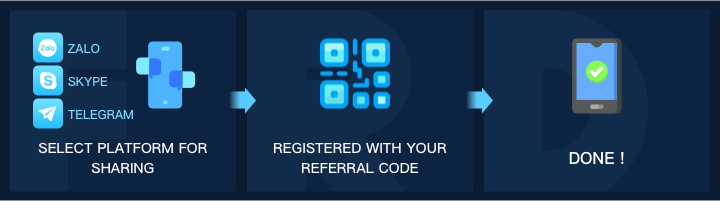
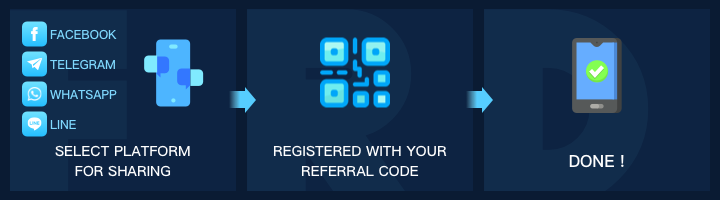
feat-(bwing) add referral popup / translation

diff --git a/apps/bwing/src/components/home/home.js b/apps/bwing/src/components/home/home.js
@@ -39,36 +39,56 @@ export default () => {
 
 	useEffect(() => {
 		if (userInfo.isLogin && userInfo.userName) {
-			const cookieName = `balanceHint${userInfo.userName}`;
-			let showDepositHint = false;
-			if (readCookie(cookieName) !== "1") {
-				setCookie(cookieName, "1", 1);
-				showDepositHint = true;
-			}
+			const showDepositPopBox = () => {
+				const cookieName = `balanceHint${userInfo.userName}`;
+				let showDepositHint = false;
+				if (readCookie(cookieName) !== "1") {
+					setCookie(cookieName, "1", 1);
+					showDepositHint = true;
+				}
 
-			if (showDepositHint) {
-				api_account_GetWalletInfo().then(res => {
-					if (res.data.errorCode === 0 && isMountedRef.current) {
-						const tpWallets = res.data.data.tpWallets?.map(tp => {
-							return {
-								tpId: tp.tpId,
-								balance: tp.balance
-							};
-						});
+				if (showDepositHint) {
+					api_account_GetWalletInfo().then(res => {
+						if (res.data.errorCode === 0 && isMountedRef.current) {
+							const tpWallets = res.data.data.tpWallets?.map(
+								tp => {
+									return {
+										tpId: tp.tpId,
+										balance: tp.balance
+									};
+								}
+							);
 
-						const hasBalance =
-							res.data.data?.balance ||
-							tpWallets?.filter(tp => {
-								return tp.balance > 0;
-							}).length >= 1;
+							const hasBalance =
+								res.data.data?.balance ||
+								tpWallets?.filter(tp => {
+									return tp.balance > 0;
+								}).length >= 1;
 
-						if (!hasBalance && showDepositHint) {
-							setPopBox({
-								isOpen: true,
-								popBoxType: defPopBoxType.DepositHint
-							});
+							if (!hasBalance && showDepositHint) {
+								setPopBox({
+									isOpen: true,
+									popBoxType: defPopBoxType.DepositHint
+								});
+							}
 						}
-					}
+					});
+				}
+			};
+
+			const clickClose = () => {
+				setPopBox({ isOpen: false });
+				showDepositPopBox();
+			};
+
+			const refeCookieName = `referral_${userInfo.userName}`;
+			if (readCookie(refeCookieName) === "1") {
+				showDepositPopBox();
+			} else {
+				setPopBox({
+					isOpen: true,
+					popBoxType: defPopBoxType.JoinReferral,
+					onClickClose: clickClose
 				});
 			}
 		}

diff --git a/apps/bwing/src/components/common/popBox.joinReferral.js b/apps/bwing/src/components/common/popBox.joinReferral.js
@@ -25,27 +25,31 @@ export default ({ onClickClose }) => {
 
 	let src = null;
 	try {
-		src = require(`../../styles/img/friend-${userInfo.langId}.jpg`);
+		src = require(`../../styles/img/friendpop_${userInfo.langId}.png`);
 	} catch (error) {}
 
 	return (
-		<div className="friend active">
-			<button className="icon icon-close" onClick={onClickClose} />
-			<Link className="" to={`/${userInfo.langId}/${path.referral.root}`}>
-				<img src={src} alt="img_referral" />
-			</Link>
-			<div className="checkbox">
-				<input
-					type="checkbox"
-					id="home-popbox-joinReferral"
-					onChange={onChangeDontShow}
-					checked={selectDontShow}
-				/>
-				<label
-					htmlFor="home-popbox-joinReferral"
-					className="icon icon-checkbox-checked"
-				/>
-				{t("lbl_Dont_show_me_again")}
+		<div className="pop">
+			<div className="friend active">
+				<button className="icon icon-close" onClick={onClickClose} />
+				<Link
+					className=""
+					to={`/${userInfo.langId}/${path.referral.root}`}>
+					<img src={src} alt="img_referral" />
+				</Link>
+				<div className="checkbox">
+					<input
+						type="checkbox"
+						id="home-popbox-joinReferral"
+						onChange={onChangeDontShow}
+						checked={selectDontShow}
+					/>
+					<label
+						htmlFor="home-popbox-joinReferral"
+						className="icon icon-checkbox-checked"
+					/>
+					{t("lbl_Dont_show_me_again")}
+				</div>
 			</div>
 		</div>
 	);

diff --git a/apps/bwing/src/components/referral/referral.links.js b/apps/bwing/src/components/referral/referral.links.js
@@ -7,6 +7,8 @@ export default ({ referralCode, t, langId }) => {
 	const welcomeMessage = t("lbl_Referral_Welcome_Bwing");
 	const ref_telegram = `https://t.me/share/url?url=${link_default}&text=${welcomeMessage}`;
 	const ref_fb = `https://www.facebook.com/sharer/sharer.php?u=${link_default}&quote=${welcomeMessage}`;
+	const ref_line = `http://line.naver.jp/R/msg/text/?${welcomeMessage}%0D%0A${link_default}`;
+	const ref_whatsapp = `https://wa.me/?&text=${welcomeMessage} ${link_default}`;
 
 	const copyWelComeText = () => {
 		const virtualInput = document.createElement("input");
@@ -83,6 +85,26 @@ export default ({ referralCode, t, langId }) => {
 							)
 						}>
 						{t("lbl_Telegram")}
+					</a>
+
+					<a
+						className="icon icon-whatsapp"
+						onClick={() =>
+							window.open(
+								ref_whatsapp,
+								"",
+								"height=600,width=600"
+							)
+						}>
+						{t("lbl_WhatsApp")}
+					</a>
+
+					<a
+						className="icon icon-line"
+						onClick={() =>
+							window.open(ref_line, "", "height=600,width=600")
+						}>
+						{t("lbl_LINE")}
 					</a>
 				</div>
 				<QRCode

diff --git a/apps/bwing/src/components/common/popBox.js b/apps/bwing/src/components/common/popBox.js
@@ -253,6 +253,12 @@ export default () => {
 			break;
 		}
 
+		case defPopBoxType.JoinReferral: {
+			const JoinReferral = lazy(() => import("./popBox.joinReferral"));
+			content = <JoinReferral onClickClose={popBox.onClickClose} />;
+			break;
+		}
+
 		case defPopBoxType.default:
 			break;
 
